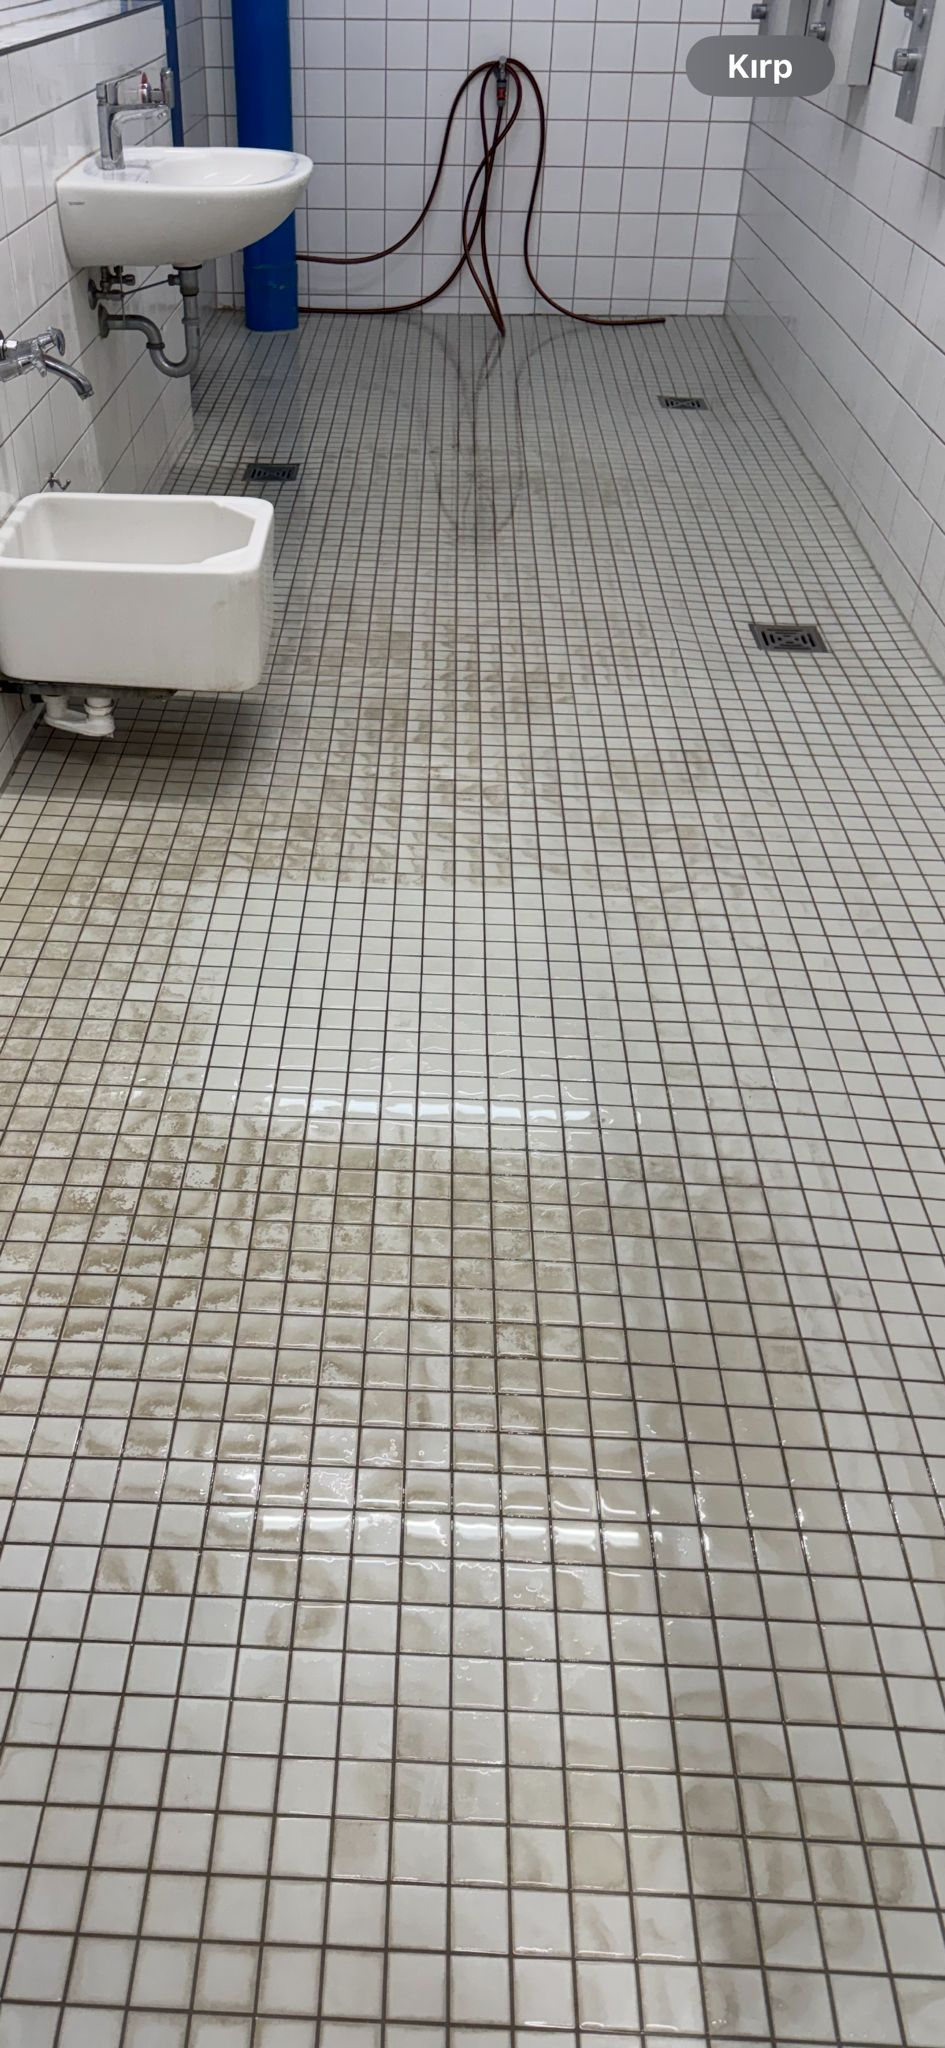
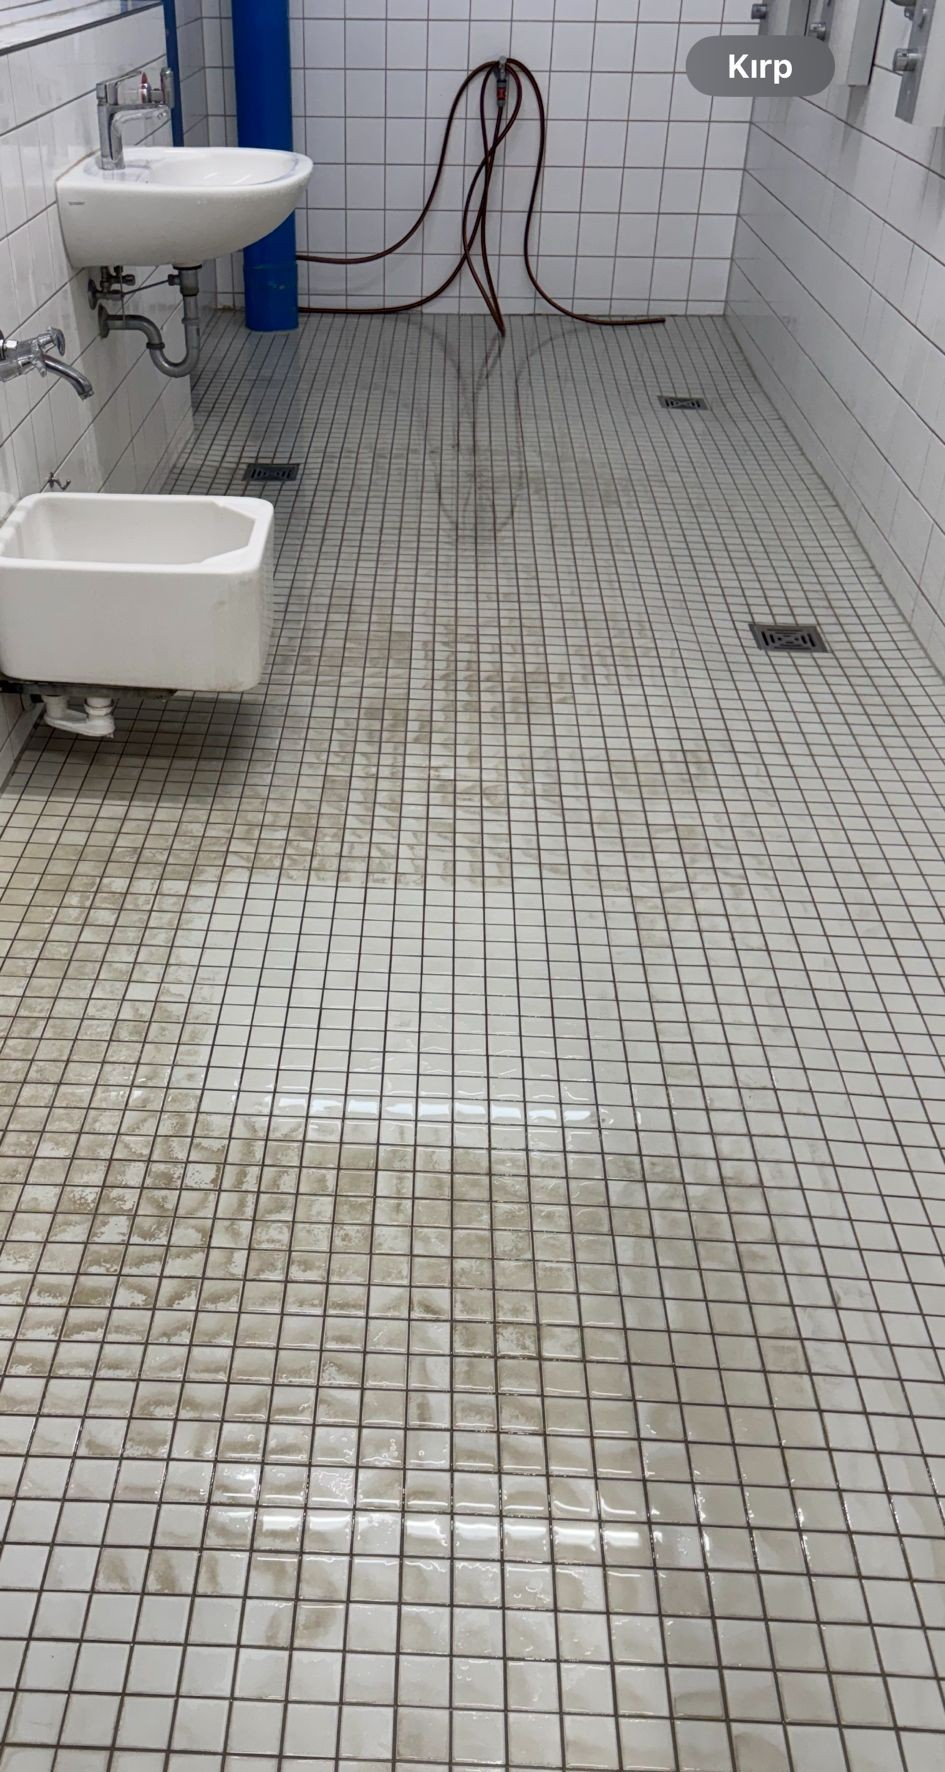
Karten

diff --git a/src/components/Gallery.tsx b/src/components/Gallery.tsx
@@ -14,14 +14,14 @@ interface GalleryItem {
 const galleryItems: GalleryItem[] = [
   {
     id: 1,
-    title: 'Badreinigung',
+    title: 'Grundreinigung',
     category: 'Innenraum',
     before: '/badalt.jpeg',
     after: '/badneu.jpeg',
   },
   {
     id: 2,
-    title: 'WC-Reinigung',
+    title: 'Grundreinigung',
     category: 'Innenraum',
     before: '/wcalt.jpeg',
     after: '/wcneu.jpeg',
@@ -37,6 +37,24 @@ const galleryItems: GalleryItem[] = [
     title: 'Winterdienst',
     category: 'Außen',
     image: '/winterdienst2.jpeg',
+  },
+  {
+    id: 5,
+    title: 'Büroreinigung',
+    category: 'Gewerbe',
+    image: '/Staubsauger.png',
+  },
+  {
+    id: 6,
+    title: 'Büroreinigung',
+    category: 'Gewerbe',
+    image: '/Treppe.png',
+  },
+  {
+    id: 7,
+    title: 'Büroreinigung',
+    category: 'Gewerbe',
+    image: '/Büro.png',
   },
 ];
 
@@ -145,7 +163,7 @@ export function Gallery() {
 
                 {/* Title Overlay */}
                 <div className="absolute bottom-0 left-0 right-0 bg-gradient-to-t from-black/80 via-black/40 to-transparent p-4">
-                  <h3 className="text-white text-lg font-bold">{item.title}</h3>
+                  <h3 className="text-white text-lg font-bold text-center">{item.title}</h3>
                 </div>
 
                 {/* Hover Hint - only for before/after */}
